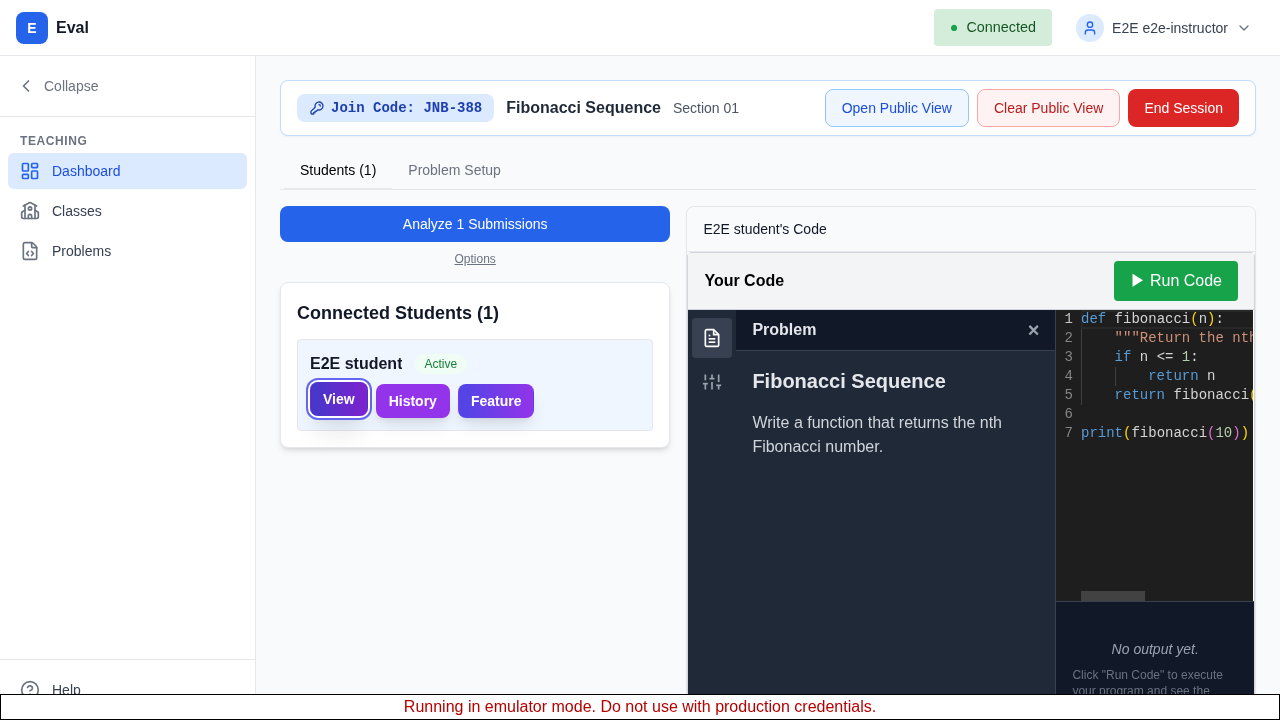
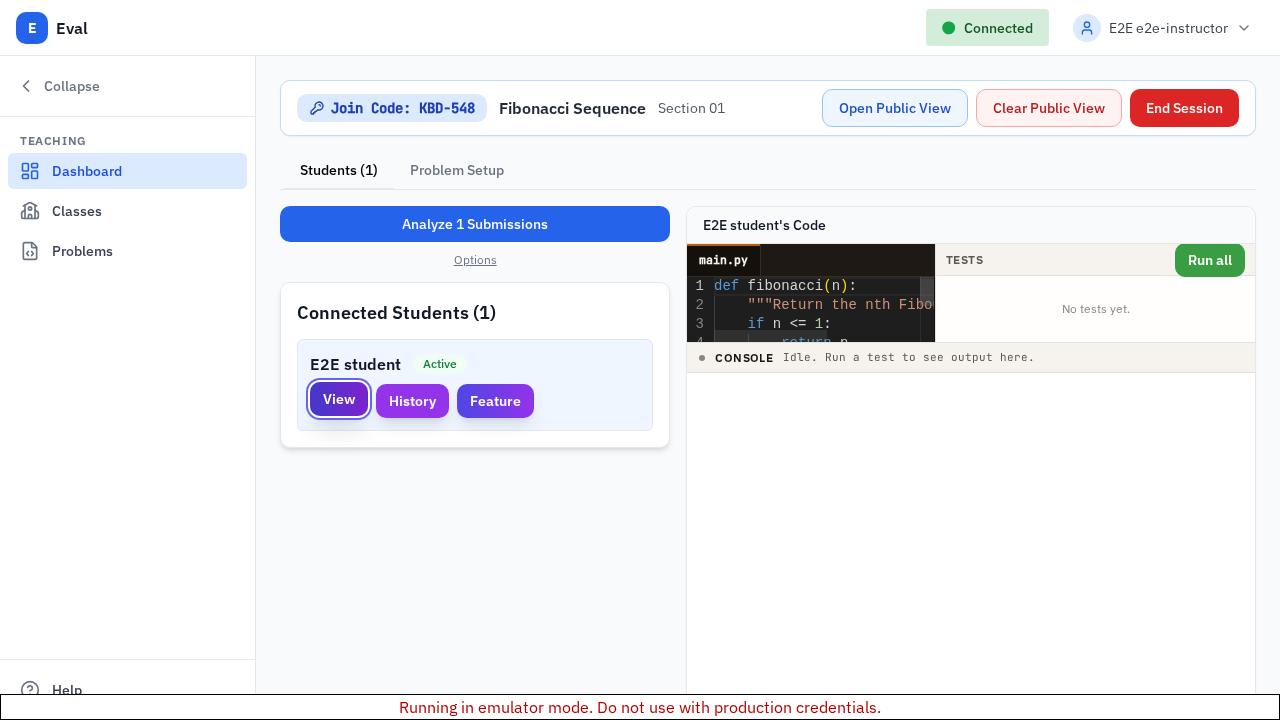
fix(eval-cej.6.7): author-flow markdown content single-line; update screenshots
Avoid Monaco's empty-line whitespace handling in the statement.md
round-trip assertion. screenshots.spec.ts regenerated the docs images
to reflect the post-G2 author UI.

diff --git a/frontend/e2e/author-flow.spec.ts b/frontend/e2e/author-flow.spec.ts
@@ -107,13 +107,17 @@ test('author full flow: create, add tests of both kinds, edit, persist round-tri
     // Toggle to Edit mode (MdToggle "Edit" button)
     await page.locator('button:has-text("Edit")').click();
 
-    // Wait for the Monaco editor to be ready (statement tab uses Monaco in edit mode)
+    // Wait for the Monaco editor to be ready (statement tab uses Monaco in edit mode).
+    // Single-line markdown sidesteps Monaco's blank-line whitespace handling — the
+    // statement-tab editor adds indent on empty lines under some conditions, which
+    // makes a multi-line round-trip flaky. Functional coverage of markdown editing
+    // doesn't require multiple lines here.
     await waitForMonacoReady(page);
-    await setMonacoValue(page, '# Two Sum\n\nGiven two numbers, return their sum.');
+    await setMonacoValue(page, '# Two Sum — given two numbers, return their sum.');
 
     // Verify the content
     const body = await getMonacoValue(page);
-    expect(body).toBe('# Two Sum\n\nGiven two numbers, return their sum.');
+    expect(body).toBe('# Two Sum — given two numbers, return their sum.');
 
     // Switch to Starter Code tab and set starter code
     await page.locator('[data-testid="editor-tab-starter"]').click();
@@ -212,7 +216,7 @@ test('author full flow: create, add tests of both kinds, edit, persist round-tri
     await page.locator('button:has-text("Edit")').click();
     await waitForMonacoReady(page);
     const statementBody = await getMonacoValue(page);
-    expect(statementBody).toBe('# Two Sum\n\nGiven two numbers, return their sum.');
+    expect(statementBody).toBe('# Two Sum — given two numbers, return their sum.');
 
     // Verify starter code
     await page.locator('[data-testid="editor-tab-starter"]').click();
